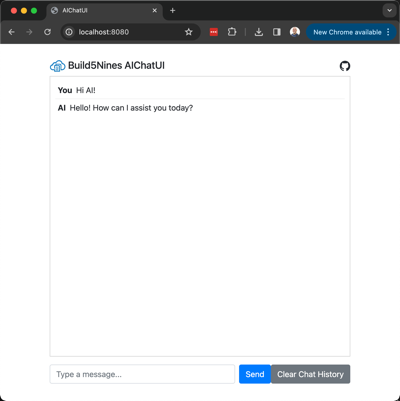
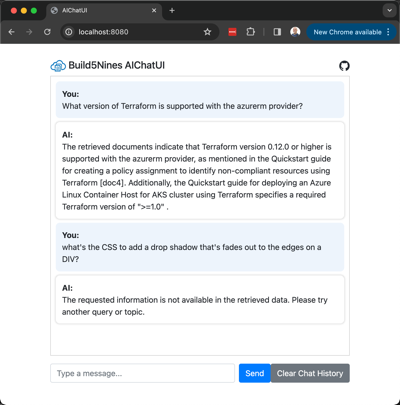
enhance UI styling a little

diff --git a/app/static/index.html b/app/static/index.html
@@ -10,11 +10,19 @@
         body { margin: 0; padding: 0; }  
         #chat-container { max-width: 600px; margin: 30px auto; }  
         #message-list { height: 35em; overflow-y: scroll; border: 1px solid #ccc; padding: 10px; }  
-        .message { padding: 5px; border-bottom: 1px solid #eee; }  
+        .message { margin-bottom: 0.5em; padding: 0.7em; border-bottom: 1px solid #eee; border: solid 0.1em transparent; border-radius: 0.5em; }  
         .message:last-child { border-bottom: none; }
 
         .message-role { font-weight: bold; margin-right: 0.5em; }
-        .message-rol::after { content: ":"; font-weight: bold; }
+        .message-role::after { content: ":"; font-weight: bold; }
+
+        .message-you {
+            border-color: #ECF4FC;
+            background: #ECF4FC;
+        }
+        .message-ai {
+            box-shadow: 0 0 0.2em 0.1em rgba(150, 150, 150, 0.3);
+        }
     </style>  
 </head>  
 <body>
@@ -72,7 +80,11 @@
             function addMessage(sender, message) {  
                 const messageElement = $('<div class="message"></div>');
                 const formattedMessage = formatMessageForDisplay(message);
-                messageElement.html(`<span class="message-role">${sender}</span><span class="message-content">${formattedMessage}</span>`);  
+                
+                messageElement.addClass(`message-${sender.toLowerCase()}`);
+                messageElement.append(`<div class="message-role">${sender}</div>`);
+                messageElement.append(`<div class="message-content">${formattedMessage}</div>`);
+
                 messageList.append(messageElement);  
                 messageList.scrollTop(messageList[0].scrollHeight);  
             }
